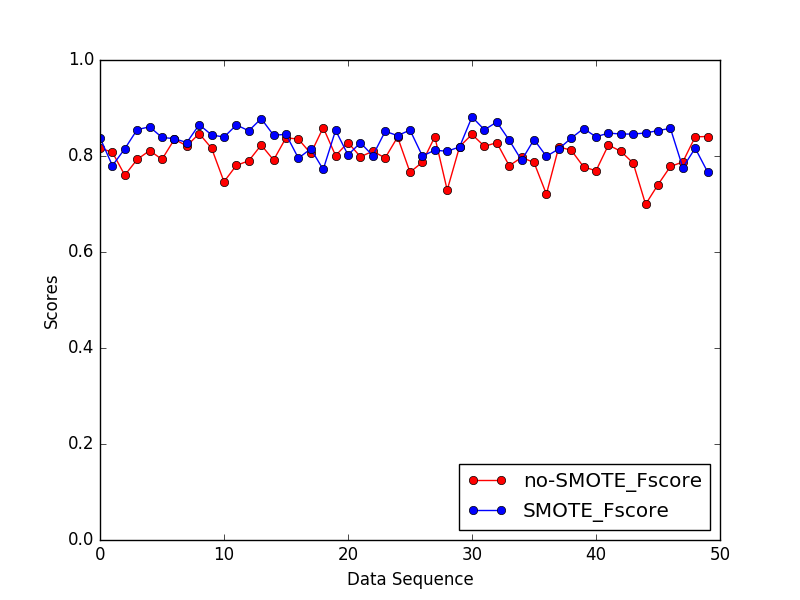
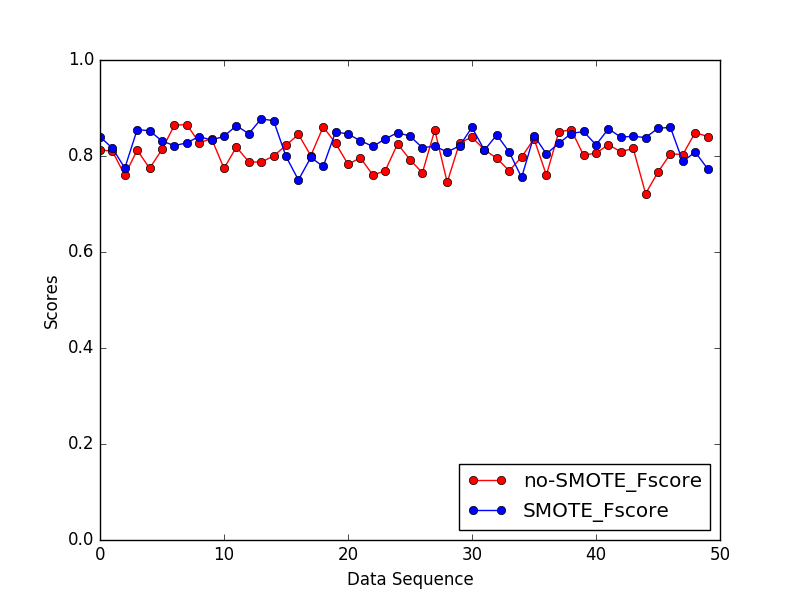
update results

Changed region(s): [[0.125, 0.18, 0.9062, 0.36]]

diff --git a/code/EmailSignatureExtraction_v2.py b/code/EmailSignatureExtraction_v2.py
@@ -39,7 +39,7 @@ def main():
                       "DT": sklearn.tree.DecisionTreeClassifier(), \
                       "NBayes": sklearn.naive_bayes.GaussianNB(), \
                       "NNeighbors": sklearn.neighbors.nearest_centroid.NearestCentroid()}
-            model_chosen = "SVC"
+            model_chosen = "NNeighbors"
             accuracys, precisions, recalls, Fscores = cross_validationS(\
                 data_pos_vec, data_neg_vec, models[model_chosen], num_cross=NUM_OF_CROSSFOLD, smote_flag=test_mode) # cross validation
             sFscores.extend(Fscores)
